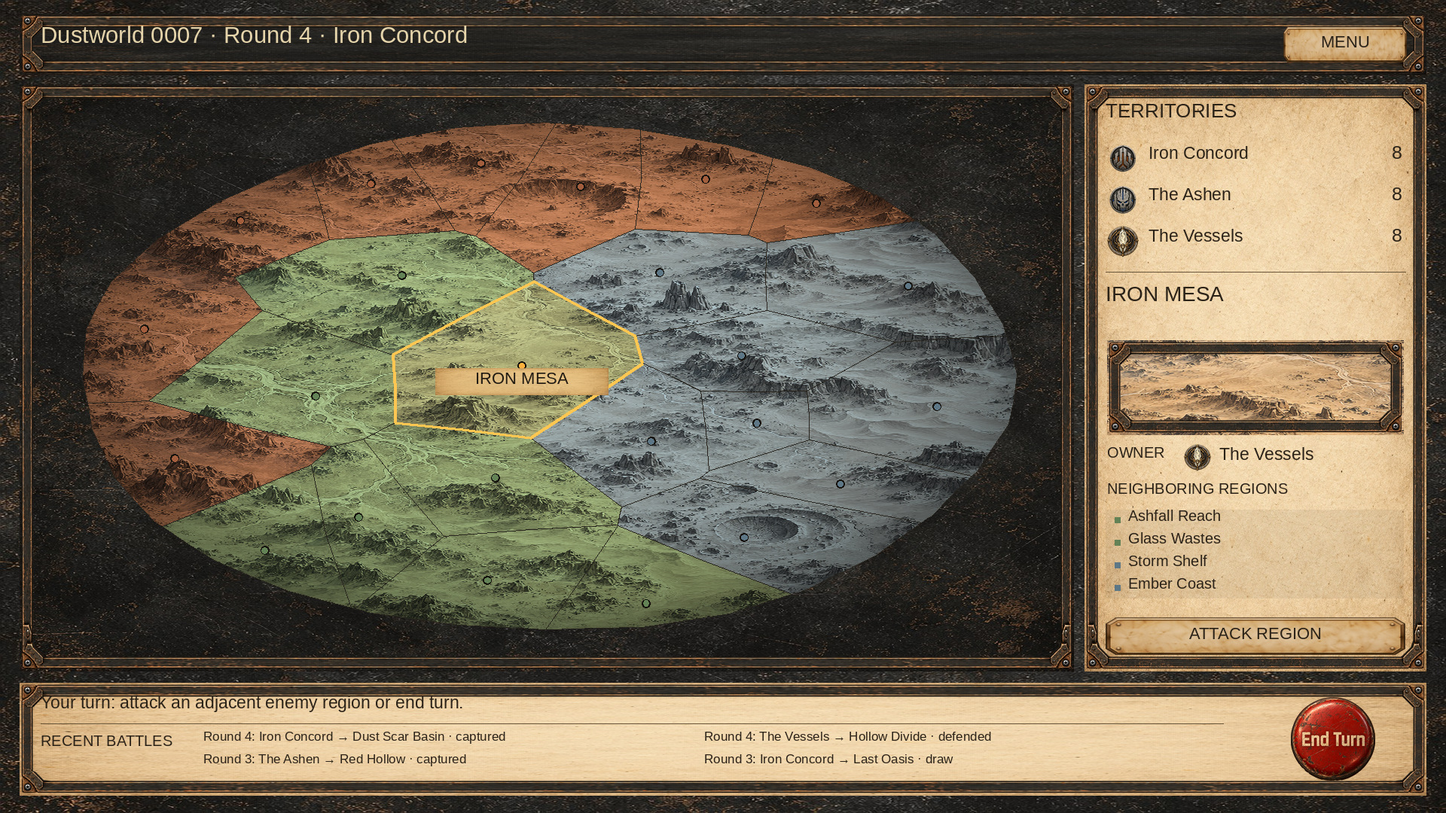
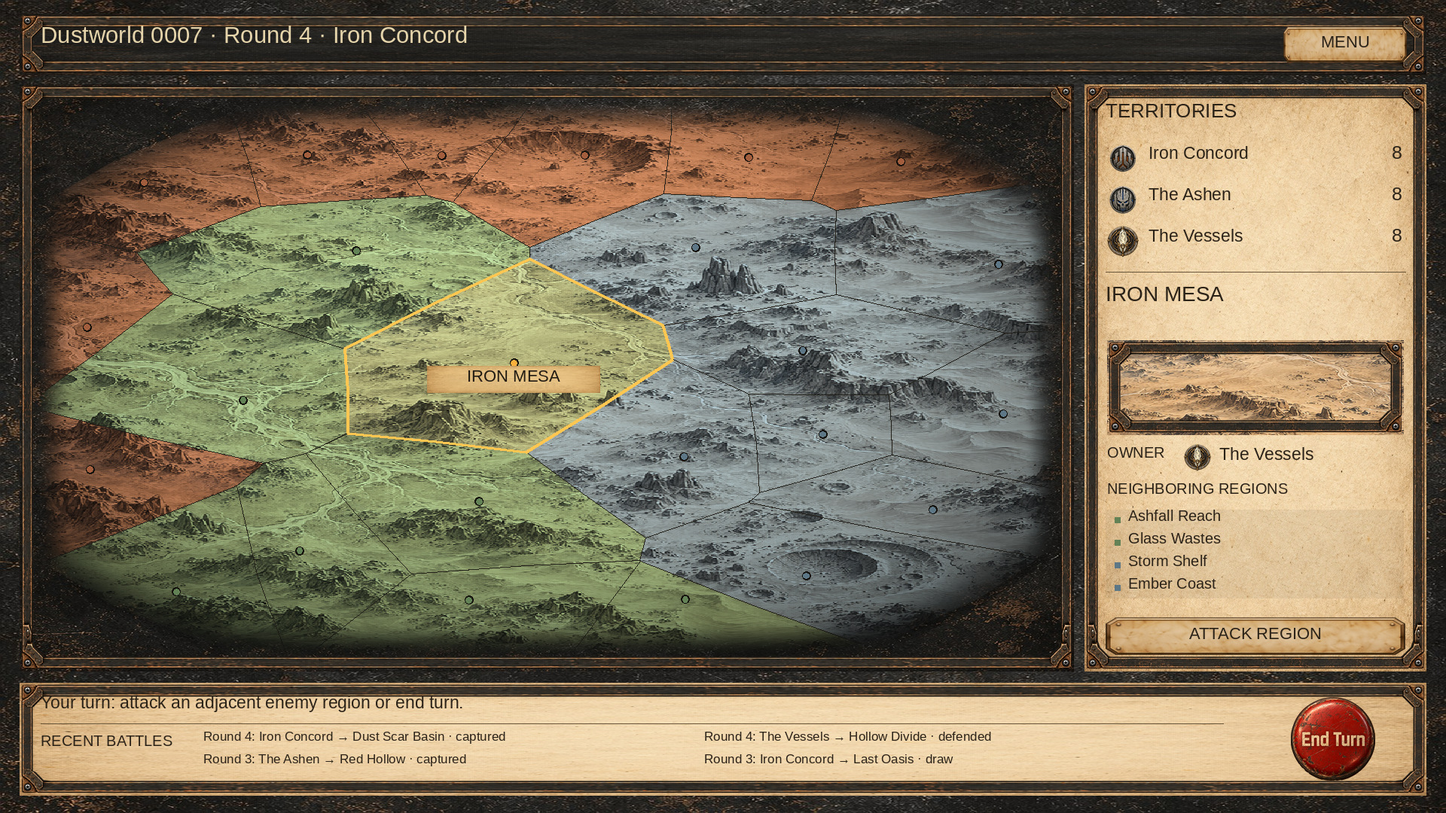
Fill campaign map frame with a wider feathered surface and deeper rim lighting

diff --git a/Assets/Scripts/Campaign/CampaignRegionGraphic.cs b/Assets/Scripts/Campaign/CampaignRegionGraphic.cs
@@ -30,7 +30,7 @@ namespace Game.Campaign
             var indices = CampaignGeometry.Triangulate(polygon);
             for (int i = 0; i < indices.Count; i += 3)
                 Subdivide(polygon[indices[i]], polygon[indices[i + 1]], polygon[indices[i + 2]], isShadow ? 0 : 3);
-            marker = InteriorCenter(region);
+            marker = VisibleCenter(region);
             clicked = click; hovered = onHover; SetVerticesDirty();
         }
 
@@ -49,6 +49,30 @@ namespace Game.Campaign
                 if (area > largest) { largest = area; result = (a + b + c) / 3; }
             }
             return result;
+        }
+
+        // Enlarging the surface crops the outer rim. Keep each marker in its own visible cell.
+        public static Vector2 VisibleCenter(RegionState region)
+        {
+            var center = InteriorCenter(region);
+            var projectedCenter = CampaignMapView.Project(center);
+            if (Math.Abs(projectedCenter.x) <= .90f && Math.Abs(projectedCenter.y) <= .80f) return center;
+            var vertices = region.PolygonVertices;
+            var triangles = CampaignGeometry.Triangulate(vertices);
+            var best = center; double bestScore = double.MaxValue;
+            for (int t = 0; t < triangles.Count; t += 3)
+                for (int a = 1; a < 12; a++)
+                    for (int b = 1; a + b < 12; b++)
+                    {
+                        var point = (vertices[triangles[t]] * a + vertices[triangles[t + 1]] * b
+                            + vertices[triangles[t + 2]] * (12 - a - b)) / 12f;
+                        var projectedPoint = CampaignMapView.Project(point);
+                        double overflow = Math.Max(0, Math.Abs(projectedPoint.x) - .90f)
+                            + Math.Max(0, Math.Abs(projectedPoint.y) - .80f);
+                        double score = overflow * 100 + (point - center).sqrMagnitude;
+                        if (score < bestScore) { bestScore = score; best = point; }
+                    }
+            return best;
         }
 
         private void Subdivide(Vector2 a, Vector2 b, Vector2 c, int depth)
@@ -95,7 +119,7 @@ namespace Game.Campaign
                     var p = surfaceTriangles[i + j];
                     // Shared map coordinates produce continuous shading and UVs across every cell.
                     float radius = Mathf.Clamp01(p.sqrMagnitude);
-                    float shade = .94f + .06f * p.y - .34f * radius * radius;
+                    float shade = .99f + .11f * p.y - .49f * radius * radius;
                     var tint = silhouette ? color : ownership; tint.a = 1;
                     AddVertex(vh, Pixel(p), tint, CampaignMapView.SurfaceUV(p), !silhouette, shade);
                 }
@@ -110,26 +134,28 @@ namespace Game.Campaign
                 var a = Pixel(polygon[i]); var b = Pixel(polygon[(i + 1) % polygon.Count]);
                 var direction = (b - a).normalized; var n = new Vector2(-direction.y, direction.x) * width;
                 int start = vh.currentVertCount;
-                AddVertex(vh, a - n, border, Vector2.zero, false); AddVertex(vh, a + n, border, Vector2.zero, false);
-                AddVertex(vh, b + n, border, Vector2.zero, false); AddVertex(vh, b - n, border, Vector2.zero, false);
+                var uvA = CampaignMapView.SurfaceUV(polygon[i]);
+                var uvB = CampaignMapView.SurfaceUV(polygon[(i + 1) % polygon.Count]);
+                AddVertex(vh, a - n, border, uvA, false); AddVertex(vh, a + n, border, uvA, false);
+                AddVertex(vh, b + n, border, uvB, false); AddVertex(vh, b - n, border, uvB, false);
                 vh.AddTriangle(start, start + 1, start + 2); vh.AddTriangle(start, start + 2, start + 3);
             }
-            Circle(vh, Pixel(marker), 5.5f, new Color(.11f, .10f, .085f));
-            Circle(vh, Pixel(marker), selected ? 4.1f : 3.9f, selected ? new Color(1f, .69f, .24f) : color);
+            Circle(vh, Pixel(marker), 5.5f, new Color(.11f, .10f, .085f), CampaignMapView.SurfaceUV(marker));
+            Circle(vh, Pixel(marker), selected ? 4.1f : 3.9f, selected ? new Color(1f, .69f, .24f) : color, CampaignMapView.SurfaceUV(marker));
         }
         private static void AddVertex(VertexHelper vh, Vector2 position, Color tint, Vector2 uv, bool textured, float lighting = 1)
         {
             var vertex = UIVertex.simpleVert; vertex.position = position; vertex.color = tint;
             vertex.uv0 = uv; vertex.uv1 = new Vector2(textured ? 1 : 0, lighting); vh.AddVert(vertex);
         }
-        private static void Circle(VertexHelper vh, Vector2 center, float radius, Color tint)
+        private static void Circle(VertexHelper vh, Vector2 center, float radius, Color tint, Vector2 uv)
         {
-            int start = vh.currentVertCount; AddVertex(vh, center, tint, Vector2.zero, false);
+            int start = vh.currentVertCount; AddVertex(vh, center, tint, uv, false);
             const int sides = 16;
             for (int i = 0; i <= sides; i++)
             {
                 float angle = i * Mathf.PI * 2 / sides;
-                AddVertex(vh, center + new Vector2(Mathf.Cos(angle), Mathf.Sin(angle)) * radius, tint, Vector2.zero, false);
+                AddVertex(vh, center + new Vector2(Mathf.Cos(angle), Mathf.Sin(angle)) * radius, tint, uv, false);
                 if (i > 0) vh.AddTriangle(start, start + i, start + i + 1);
             }
         }

diff --git a/Assets/Scripts/Campaign/CampaignMapView.cs b/Assets/Scripts/Campaign/CampaignMapView.cs
@@ -17,9 +17,9 @@ namespace Game.Campaign
         private TMPro.TMP_Text selectedLabel;
         public Texture2D SurfaceTexture { get; private set; }
         // One projection for mesh, input, labels and operation arrows. Save polygons stay in map space.
-        public static Vector2 Project(Vector2 p) => new Vector2(p.x * .98f, p.y * .97f + p.x * .006f);
-        public static Vector2 ToPixel(Rect rect, Vector2 projected) => rect.center + new Vector2(projected.x * rect.width * .47f, projected.y * rect.height * .48f);
-        public static Vector2 FromPixel(Rect rect, Vector2 pixel) => new Vector2((pixel.x - rect.center.x) / (rect.width * .47f), (pixel.y - rect.center.y) / (rect.height * .48f));
+        public static Vector2 Project(Vector2 p) => new Vector2(p.x * 1.20f, p.y * 1.13f + p.x * .006f);
+        public static Vector2 ToPixel(Rect rect, Vector2 projected) => rect.center + new Vector2(projected.x * rect.width * .50f, projected.y * rect.height * .50f);
+        public static Vector2 FromPixel(Rect rect, Vector2 pixel) => new Vector2((pixel.x - rect.center.x) / (rect.width * .50f), (pixel.y - rect.center.y) / (rect.height * .50f));
         public static Vector2 SurfaceUV(Vector2 point) => new Vector2(point.x * .48f + .5f, point.y * .48f + .5f);
         public void Build(IReadOnlyList<RegionState> regions, Action<int> clicked, Action<int?> hovered)
         {
@@ -30,14 +30,15 @@ namespace Game.Campaign
             if (SurfaceTexture == null || shader == null) throw new InvalidOperationException("Campaign surface assets are missing.");
             if (surfaceMaterial != null) Destroy(surfaceMaterial);
             surfaceMaterial = new Material(shader) { name = "CampaignSurface (runtime)" };
+            OnRectTransformDimensionsChange();
             var canvas = GetComponentInParent<Canvas>();
             if (canvas != null) canvas.additionalShaderChannels |= AdditionalCanvasShaderChannels.TexCoord1;
             foreach (var region in regions)
             {
                 var shadow = new GameObject("PlanetDepth_" + region.RegionId, typeof(RectTransform), typeof(CanvasRenderer)); shadow.transform.SetParent(transform, false);
                 var rect = (RectTransform)shadow.transform; rect.anchorMin = Vector2.zero; rect.anchorMax = Vector2.one;
-                rect.offsetMin = rect.offsetMax = new Vector2(0, -5);
-                var graphic = shadow.AddComponent<CampaignRegionGraphic>(); graphic.Configure(region, null, null, true);
+                rect.offsetMin = rect.offsetMax = new Vector2(0, -12);
+                var graphic = shadow.AddComponent<CampaignRegionGraphic>(); graphic.SetSurface(SurfaceTexture, surfaceMaterial); graphic.Configure(region, null, null, true);
                 graphic.Refresh(new Color(.023f, .027f, .027f), false, false, false, false, false, false);
             }
             foreach (var region in regions)
@@ -74,15 +75,15 @@ namespace Game.Campaign
                     op?.TargetRegionId == r.RegionId, op?.TargetRegionId == r.RegionId && op.OwnershipApplied && op.Outcome == CampaignOutcome.AttackerVictory, inputEnabled);
             }
             var operation = state.PendingOperation;
-            arrow?.Set(operation == null ? (Vector2?)null : Project(CampaignRegionGraphic.InteriorCenter(state.Regions.Find(r => r.RegionId == operation.SourceRegionId))),
-                operation == null ? (Vector2?)null : Project(CampaignRegionGraphic.InteriorCenter(state.Regions.Find(r => r.RegionId == operation.TargetRegionId))));
+            arrow?.Set(operation == null ? (Vector2?)null : Project(CampaignRegionGraphic.VisibleCenter(state.Regions.Find(r => r.RegionId == operation.SourceRegionId))),
+                operation == null ? (Vector2?)null : Project(CampaignRegionGraphic.VisibleCenter(state.Regions.Find(r => r.RegionId == operation.TargetRegionId))));
             if (selectedLabelRoot == null) return;
             var labelRegion = selected.HasValue ? state.Regions.Find(r => r.RegionId == selected.Value) : null;
             selectedLabelRoot.gameObject.SetActive(labelRegion != null);
             if (labelRegion != null)
             {
                 var rect = (RectTransform)transform;
-                var position = ToPixel(rect.rect, Project(CampaignRegionGraphic.InteriorCenter(labelRegion)));
+                var position = ToPixel(rect.rect, Project(CampaignRegionGraphic.VisibleCenter(labelRegion)));
                 selectedLabelRoot.anchorMin = selectedLabelRoot.anchorMax = new Vector2(.5f, .5f);
                 selectedLabelRoot.pivot = new Vector2(.5f, .5f);
                 selectedLabelRoot.sizeDelta = new Vector2(230, 36);
@@ -92,6 +93,12 @@ namespace Game.Campaign
         }
         public static Color ColorFor(Game.Players.Faction faction) => faction == Game.Players.Faction.IronConcord ? new Color(.37f, .47f, .53f)
             : faction == Game.Players.Faction.Ashen ? new Color(.64f, .37f, .24f) : new Color(.39f, .51f, .34f);
+        private void OnRectTransformDimensionsChange()
+        {
+            if (surfaceMaterial == null) return;
+            var rect = ((RectTransform)transform).rect;
+            surfaceMaterial.SetVector("_SurfaceRect", new Vector4(rect.xMin, rect.yMin, rect.xMax, rect.yMax));
+        }
         private void OnDestroy() { if (surfaceMaterial != null) Destroy(surfaceMaterial); }
     }
 }

diff --git a/Assets/Editor/CampaignVisualTests.cs b/Assets/Editor/CampaignVisualTests.cs
@@ -41,6 +41,11 @@ public sealed class CampaignVisualTests
         foreach (var region in state.Regions)
         {
             Assert.True(CampaignGeometry.Contains(region.PolygonVertices, CampaignRegionGraphic.InteriorCenter(region)));
+            var visible = CampaignRegionGraphic.VisibleCenter(region);
+            var projected = CampaignMapView.Project(visible);
+            Assert.True(CampaignGeometry.Contains(region.PolygonVertices, visible));
+            Assert.That(Mathf.Abs(projected.x), Is.LessThan(.97f));
+            Assert.That(Mathf.Abs(projected.y), Is.LessThan(.97f));
             foreach (var vertex in region.PolygonVertices)
             {
                 var uv = CampaignMapView.SurfaceUV(vertex);
@@ -58,6 +63,11 @@ public sealed class CampaignVisualTests
               new Vector2(1, 1), new Vector2(1, 3), new Vector2(0, 3) } };
         Assert.False(CampaignGeometry.Contains(region.PolygonVertices, CampaignGeometry.Center(region)));
         Assert.True(CampaignGeometry.Contains(region.PolygonVertices, CampaignRegionGraphic.InteriorCenter(region)));
+            var visible = CampaignRegionGraphic.VisibleCenter(region);
+            var projected = CampaignMapView.Project(visible);
+            Assert.True(CampaignGeometry.Contains(region.PolygonVertices, visible));
+            Assert.That(Mathf.Abs(projected.x), Is.LessThan(.97f));
+            Assert.That(Mathf.Abs(projected.y), Is.LessThan(.97f));
     }
     [Test]
     public void RegionMeshSeparatesTexturedTerrainFromSolidBordersAndMarkers()

diff --git a/Assets/Scripts/Campaign/CampaignUI.cs b/Assets/Scripts/Campaign/CampaignUI.cs
@@ -46,7 +46,8 @@ namespace Game.Campaign
             Skin(surface, false);
             surface.GetComponent<Image>().raycastTarget = false;
             var mapRect = CollectionUIElements.Rect(surface, "Regions"); CollectionUIElements.Stretch(mapRect);
-            mapRect.offsetMin = new Vector2(26, 28); mapRect.offsetMax = new Vector2(-26, -28);
+            mapRect.offsetMin = new Vector2(20, 20); mapRect.offsetMax = new Vector2(-20, -20);
+            mapRect.gameObject.AddComponent<RectMask2D>();
             map = mapRect.gameObject.AddComponent<CampaignMapView>();
             sidebar = CollectionUIElements.Panel(canvas, "RegionInformation"); CollectionUIElements.Place(sidebar, 1440, 112, 454, 780);
             Skin(sidebar, true);
@@ -133,7 +134,7 @@ namespace Game.Campaign
             {
                 var preview = CollectionUIElements.Rect(sidebar, "RegionTerrainPreview"); CollectionUIElements.Place(preview, 30, 340, 394, 126);
                 var terrain = preview.gameObject.AddComponent<RawImage>(); terrain.texture = map.SurfaceTexture; terrain.raycastTarget = false;
-                var center = CampaignMapView.SurfaceUV(CampaignRegionGraphic.InteriorCenter(region));
+                var center = CampaignMapView.SurfaceUV(CampaignRegionGraphic.VisibleCenter(region));
                 terrain.uvRect = new Rect(Mathf.Clamp(center.x - .16f, 0, .68f), Mathf.Clamp(center.y - .10f, 0, .80f), .32f, .20f);
                 Frame(preview);
                 Label(sidebar, "OWNER", 30, 482, 98, 34, 20);

diff --git a/Docs/PlanetaryCampaign_VisualStyle.md b/Docs/PlanetaryCampaign_VisualStyle.md
@@ -3,7 +3,7 @@
 ## Scope
 
 The campaign screen now uses the accepted second visual direction: a softly lit,
-tilted wasteland surface with continuous terrain, translucent ownership colors,
+wide wasteland surface with continuous terrain, translucent ownership colors,
 fine borders, faction markers and an amber selected region. Worn steel frames,
 parchment information panels and the existing game font/buttons/logos complete
 the console. This is a presentation change, not a new campaign architecture.
@@ -40,8 +40,20 @@ vertices instead of shading only polygon corners. Region boundaries remain actua
 generated vertices. Raycasting uses the same projected polygons and pixel
 conversion as rendering, including the inherited CanvasGroup/mask filters.
 
-Markers and selected labels use an interior point for concave regions. Operation
-arrows use the same interior points and pixel space. Decorative frames/images/text
+Markers and selected labels use an interior point for concave regions. The
+surface is enlarged horizontally (1.20) and vertically (1.13) in the same affine
+projection used for rendering and input. A RectMask2D viewport, inset 20 canvas
+units from the panel edges, crops the outer rim into a broad rounded rectangle.
+The shader fades both the viewport edges (48 units) and the map-space horizon;
+lighting darkens the lower rim and a 12-unit shadow adds depth. Surface bounds
+follow RectTransform size changes. Borders and markers carry shared map UVs so
+they fade with the terrain rather than leaving a hard outline.
+
+For a cell near the cropped rim, `VisibleCenter` chooses a point inside one of
+its existing triangles and inside the viewport where possible. Marker, selected
+name, terrain preview and operation arrows use that same point. Save vertices,
+region adjacency and click polygons are not changed. Operation arrows use the
+same pixel space. Decorative frames/images/text
 do not intercept region clicks. Owner/selection/hover changes update the existing
 meshes; no map regeneration or save mutation occurs. The shared runtime material
 is released when the view is destroyed.
@@ -69,7 +81,7 @@ No AI resource/bank reservation or tactical map code is touched.
   tests against Unity reference DLLs and explicit dependency/TMPro stubs: baseline
   and changed sources both compiled with zero errors.
 - Managed geometry check using current generator/geometry/rules and extracted
-  presentation math: 35 generated maps, 840 regions; interior markers, UV bounds,
+  presentation math: 35 generated maps, 840 regions; interior/visible markers, UV bounds,
   pixel conversion at 1280×720 / 1920×1080 / 2560×1440, unchanged region data, and
   the concave-marker regression passed. This uses the existing verification
   approach of managed vector copies, not the native Unity renderer.
@@ -115,3 +127,15 @@ contrast on the light button artwork and terrain labels, and the four-line
 history extending below its intended area. Reference-DLL compilation passed
 again after those UI fixes. The scene and all procedural/backend data remain
 unchanged by this follow-up.
+
+### Wider surface and frame-edge review
+
+The composite was rebuilt after the viewport/lighting changes using the same
+actual assets, original source font, generated seed-7 geometry and production
+`VisibleCenter` output. The square source frame is assembled as nine slices: its
+128-pixel corner patches display at 32 canvas units; only the rails stretch.
+The resulting 1400×780 map frame is rectangular. The terrain now fills that
+frame up to its inner bottom edge and fades into its metal backing.
+Reference-DLL compilation passed again; the managed 35-map/840-region check also
+confirmed visible interior markers after enlargement and unchanged save geometry.
+The composite remains a CPU approximation, not a native Unity render.
